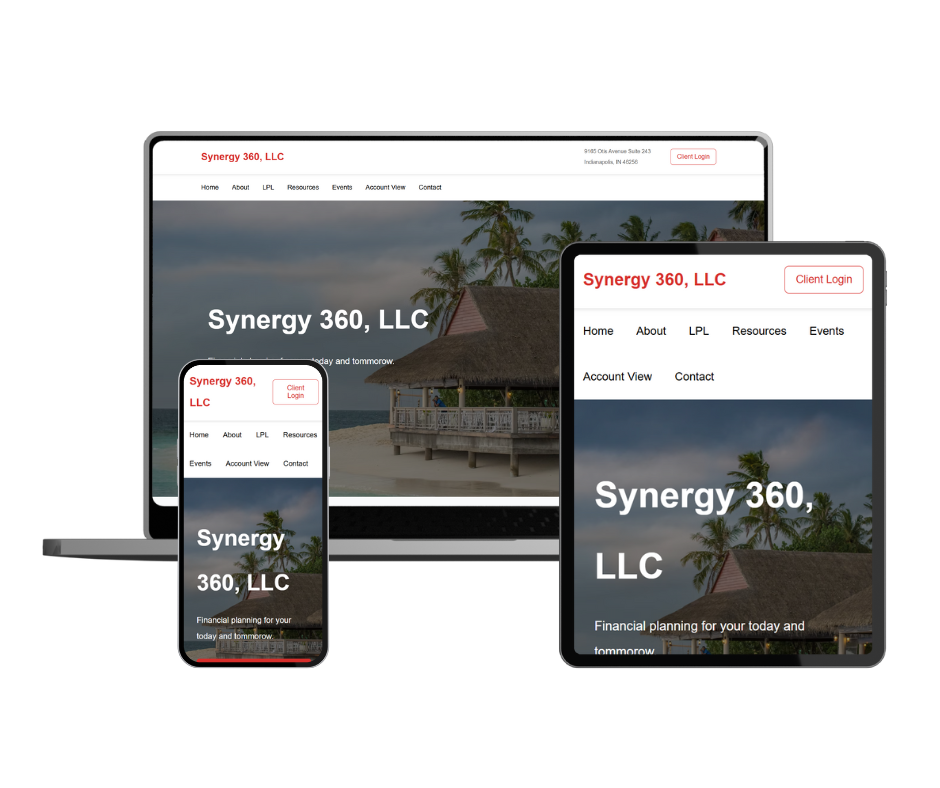
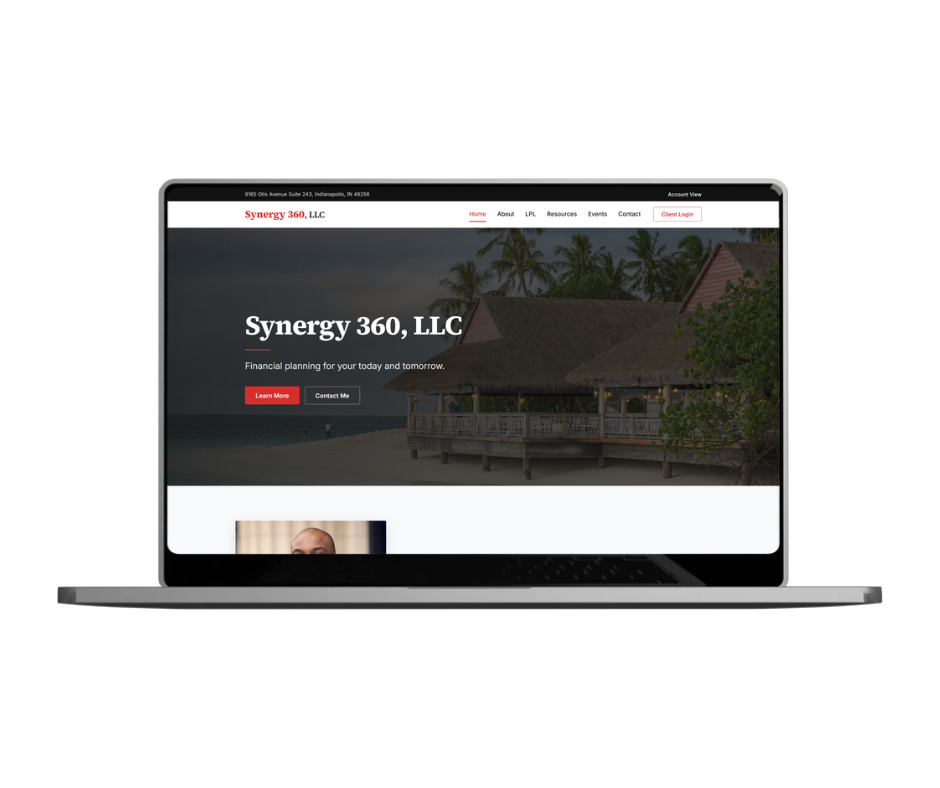
Add new projects, update images, hide Recruiting Platform

diff --git a/src/components/Projects.jsx b/src/components/Projects.jsx
@@ -19,7 +19,7 @@ export default function Projects() {
           </div>
           <div className="projects-container">
             <div className="solo-projects-wrapper">
-              {projects.map((item) => {
+              {projects.filter((item) => !item.hidden).map((item) => {
                 let technologyList = item.tech.split(", ");
                 return (
                   <ProjectItem
